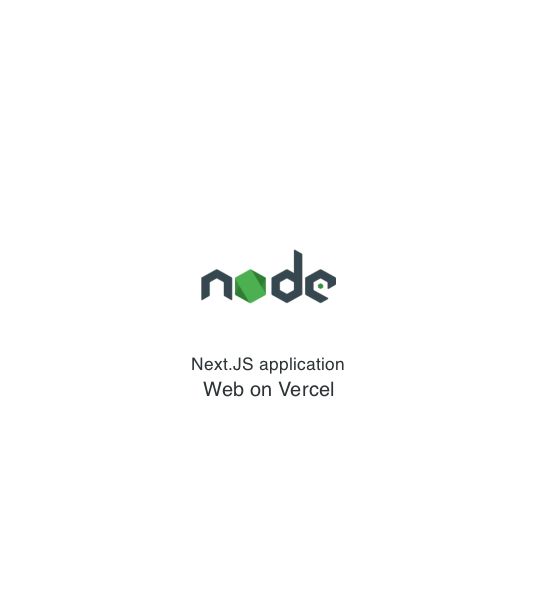
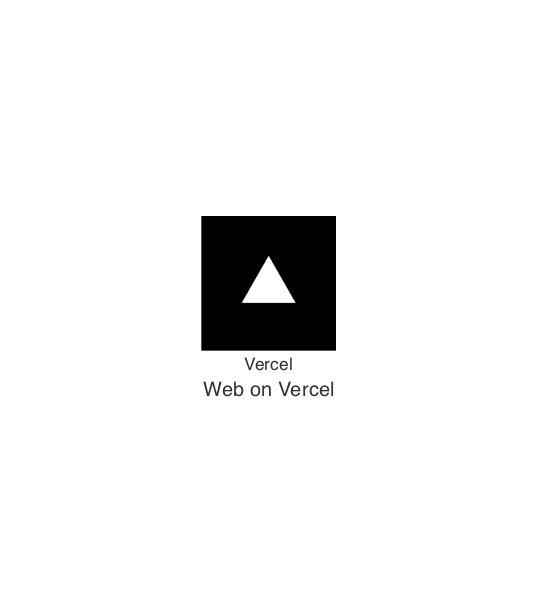
add diagrams for all 4 referenced in doc

Changed region(s): [[0.3575, 0.36, 0.6555, 0.63]]

diff --git a/web/src/pages/blog/index.tsx b/web/src/pages/blog/index.tsx
@@ -35,7 +35,49 @@ const BlogIndex = () => {
                 >
                   <img
                     src="/images/web_diagram.png"
-                    alt="Architecture Blog Post"
+                    alt="Web Architecture Blog Post"
+                  />
+                </PostBanner>
+              </ListItem>
+
+              <ListItem className="list-item">
+                <PostBanner
+                  title="GCP Architecture"
+                  date={new Date()}
+                  slug="/blog/gcp-architecture"
+                  excerpt="The GCP architecture of Neon Law"
+                >
+                  <img
+                    src="/images/gcp_diagram.png"
+                    alt="GCP Architecture Blog Post"
+                  />
+                </PostBanner>
+              </ListItem>
+
+              <ListItem className="list-item">
+                <PostBanner
+                  title="Kubernetes Architecture"
+                  date={new Date()}
+                  slug="/blog/k8s-architecture"
+                  excerpt="The k8s architecture of Neon Law"
+                >
+                  <img
+                    src="/images/k8s_diagram.png"
+                    alt="Kubernetes Architecture Blog Post"
+                  />
+                </PostBanner>
+              </ListItem>
+
+              <ListItem className="list-item">
+                <PostBanner
+                  title="Kafka Architecture"
+                  date={new Date()}
+                  slug="/blog/kafka-architecture"
+                  excerpt="The kafka architecture of Neon Law"
+                >
+                  <img
+                    src="/images/kafka_diagram.png"
+                    alt="Kafka Architecture Blog Post"
                   />
                 </PostBanner>
               </ListItem>

diff --git a/diagrams/neon_diagrams/web_diagram.py b/diagrams/neon_diagrams/web_diagram.py
@@ -1,0 +1,11 @@
+from diagrams import Diagram
+from diagrams.custom import Custom
+import os
+
+dir_path = os.path.dirname(os.path.realpath(__file__))
+web_images_path = f"{dir_path}/../../web/public/images"
+
+with Diagram("Web on Vercel", filename=f"{web_images_path}/web_diagram"):
+    vercel = Custom("Vercel", f"{dir_path}/images/vercel.png")
+
+    vercel

diff --git a/diagrams/neon_diagrams/kafka_diagram.py b/diagrams/neon_diagrams/kafka_diagram.py
@@ -1,0 +1,9 @@
+from diagrams import Diagram
+from diagrams.programming.language import NodeJS
+import os
+
+dir_path = os.path.dirname(os.path.realpath(__file__))
+web_images_path = f"{dir_path}/../../web/public/images"
+
+with Diagram("Web on Vercel", filename=f"{web_images_path}/kafka_diagram"):
+    NodeJS("Next.JS application")

diff --git a/diagrams/neon_diagrams/k8s_diagram.py b/diagrams/neon_diagrams/k8s_diagram.py
@@ -1,0 +1,9 @@
+from diagrams import Diagram
+from diagrams.programming.language import NodeJS
+import os
+
+dir_path = os.path.dirname(os.path.realpath(__file__))
+web_images_path = f"{dir_path}/../../web/public/images"
+
+with Diagram("Web on Vercel", filename=f"{web_images_path}/k8s_diagram"):
+    NodeJS("Next.JS application")

diff --git a/diagrams/neon_diagrams/gcp_diagram.py b/diagrams/neon_diagrams/gcp_diagram.py
@@ -5,5 +5,5 @@ import os
 dir_path = os.path.dirname(os.path.realpath(__file__))
 web_images_path = f"{dir_path}/../../web/public/images"
 
-with Diagram("Web on Vercel", filename=f"{web_images_path}/web_diagram"):
+with Diagram("Google Cloud", filename=f"{web_images_path}/gcp_diagram"):
     NodeJS("Next.JS application")
